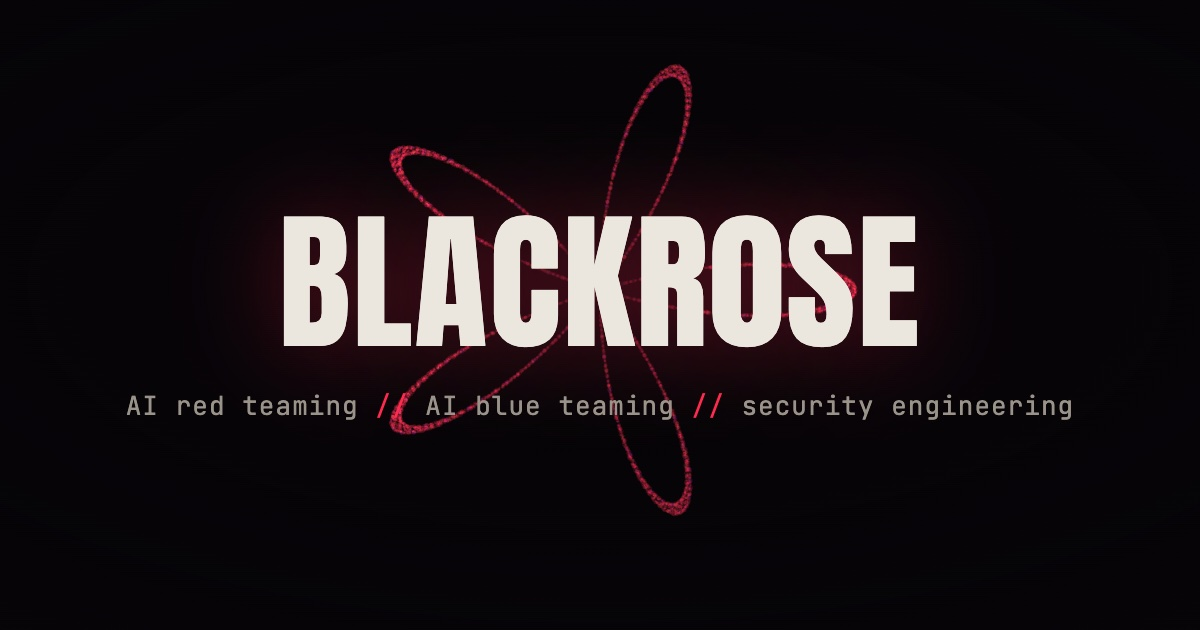
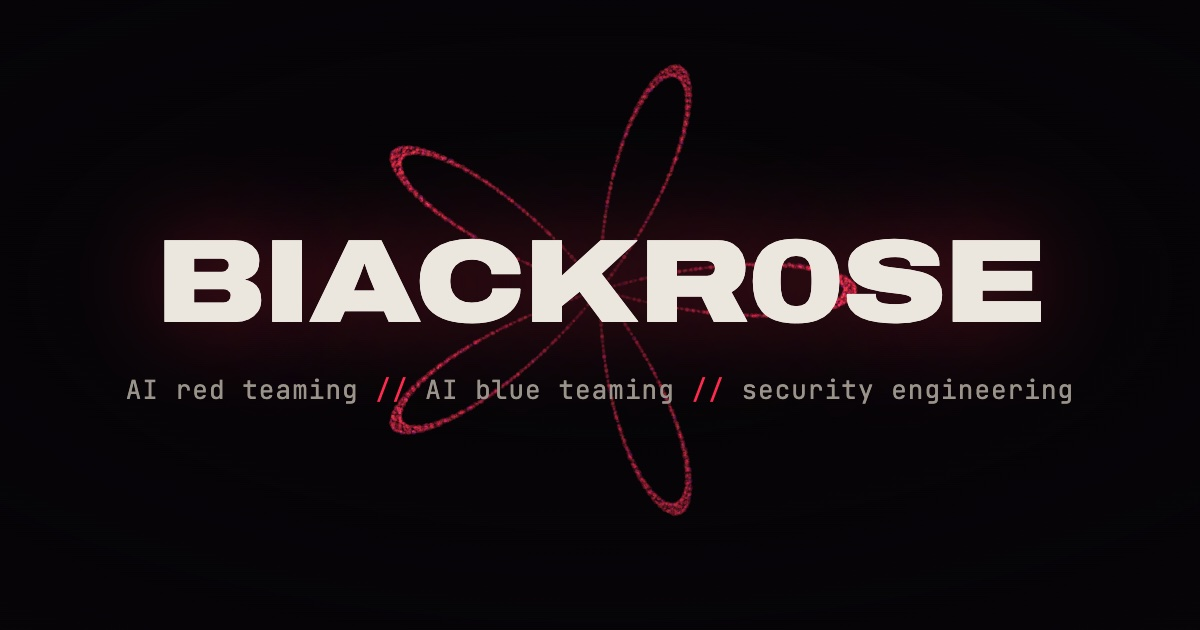
wip: correct wordmark to BIACKR0SE, swap display font to Archivo Expanded 900

Changed region(s): [[0.1233, 0.3317, 0.8942, 0.573], [0.0925, 0.6032, 0.8942, 0.6635]]

diff --git a/themes/blackrose/static/css/main.css b/themes/blackrose/static/css/main.css
@@ -3,9 +3,9 @@
    ============================================================ */
 
 @font-face {
-  font-family: "Anton";
-  src: url("../fonts/anton-v27-latin-regular.woff2") format("woff2");
-  font-weight: 400; font-style: normal; font-display: swap;
+  font-family: "Archivo Expanded";
+  src: url("../fonts/archivo-expanded-v25-latin-900.woff2") format("woff2");
+  font-weight: 900; font-stretch: 125%; font-style: normal; font-display: swap;
 }
 @font-face {
   font-family: "Space Grotesk";
@@ -46,9 +46,9 @@
   --ember: #ff6a3d;
   --violet: #a12aff;
   --grad: linear-gradient(100deg, var(--rose) 0%, var(--ember) 55%, #ffb03a 100%);
-  --display: "Anton", Impact, "Arial Narrow", sans-serif;
-  /* Anton is condensed; display type gets a touch of positive tracking */
-  --disp-track: 0.012em;
+  --display: "Archivo Expanded", "Arial Black", sans-serif;
+  /* expanded grotesque runs tight, like the original Archivo Black */
+  --disp-track: -0.01em;
   --body: "Space Grotesk", "Helvetica Neue", sans-serif;
   --mono: "JetBrains Mono", "SF Mono", Menlo, monospace;
   --pad: clamp(1.25rem, 4vw, 4rem);
@@ -200,8 +200,8 @@ img { max-width: 100%; display: block; }
 @keyframes blink { 50% { opacity: 0; } }
 .hero-title {
   font-family: var(--display);
-  font-size: clamp(3.4rem, 14.5vw, 12.5rem);
-  line-height: 0.92; letter-spacing: 0.015em;
+  font-size: clamp(3rem, 12.5vw, 11rem);
+  line-height: 0.92; letter-spacing: -0.015em;
   color: var(--ink);
   text-transform: uppercase;
   text-shadow: 0 0 90px rgba(255, 42, 77, 0.28), 0 0 24px rgba(6, 4, 7, 0.8);
@@ -267,8 +267,8 @@ section { position: relative; }
 }
 .section-title {
   font-family: var(--display);
-  font-size: clamp(2.7rem, 8vw, 6.1rem);
-  line-height: 0.98; text-transform: uppercase; letter-spacing: var(--disp-track);
+  font-size: clamp(2.6rem, 7.5vw, 5.8rem);
+  line-height: 0.95; text-transform: uppercase; letter-spacing: var(--disp-track);
   margin-bottom: 3rem;
 }
 
@@ -297,8 +297,8 @@ html.js [data-reveal].in { opacity: 1; transform: none; }
 .manifesto-inner { max-width: 60rem; }
 .statement {
   font-family: var(--display);
-  font-size: clamp(3rem, 9vw, 7.4rem);
-  line-height: 1.04; text-transform: uppercase; letter-spacing: var(--disp-track);
+  font-size: clamp(2.6rem, 8vw, 6.6rem);
+  line-height: 1.02; text-transform: uppercase; letter-spacing: var(--disp-track);
 }
 .statement .line { display: block; }
 .manifesto-copy {
@@ -494,8 +494,8 @@ a.pub-row:hover .pub-title { color: var(--rose); }
 .contact { text-align: center; padding-bottom: clamp(6rem, 16vh, 11rem); }
 .contact-title {
   font-family: var(--display);
-  font-size: clamp(2.7rem, 9.5vw, 7.4rem);
-  text-transform: uppercase; line-height: 0.98; letter-spacing: var(--disp-track);
+  font-size: clamp(2.4rem, 8.5vw, 6.6rem);
+  text-transform: uppercase; line-height: 0.95; letter-spacing: var(--disp-track);
   margin-bottom: 1.6rem;
 }
 .contact-copy { color: var(--dim); margin-bottom: 2.6rem; }
@@ -537,8 +537,8 @@ a.pub-row:hover .pub-title { color: var(--rose); }
 .post-head .kicker { margin-bottom: 1.2rem; color: var(--faint); }
 .post-title-main {
   font-family: var(--display);
-  font-size: clamp(2.1rem, 6.5vw, 3.9rem);
-  line-height: 1.05; text-transform: uppercase; letter-spacing: var(--disp-track);
+  font-size: clamp(1.9rem, 5.5vw, 3.4rem);
+  line-height: 1.02; text-transform: uppercase; letter-spacing: var(--disp-track);
 }
 .post-standfirst {
   margin-top: 1.4rem; color: var(--dim);

diff --git a/themes/blackrose/layouts/partials/head.html b/themes/blackrose/layouts/partials/head.html
@@ -23,6 +23,6 @@
 {{ range .AlternativeOutputFormats -}}
 <link rel="{{ .Rel }}" type="{{ .MediaType.Type }}" href="{{ .Permalink | safeURL }}" title="{{ site.Title }}">
 {{ end -}}
-<link rel="preload" href="{{ "fonts/anton-v27-latin-regular.woff2" | relURL }}" as="font" type="font/woff2" crossorigin>
+<link rel="preload" href="{{ "fonts/archivo-expanded-v25-latin-900.woff2" | relURL }}" as="font" type="font/woff2" crossorigin>
 <link rel="preload" href="{{ "fonts/space-grotesk-v22-latin-regular.woff2" | relURL }}" as="font" type="font/woff2" crossorigin>
 <link rel="stylesheet" href="{{ "css/main.css" | relURL }}">

diff --git a/themes/blackrose/layouts/index.html b/themes/blackrose/layouts/index.html
@@ -7,7 +7,7 @@
   <div class="hero-fade" data-hero-fade aria-hidden="true"></div>
   <div class="hero-inner">
     <p class="hero-boot mono" data-boot aria-hidden="true"></p>
-    <h1 class="hero-title glitch" data-glitch="BLACKR0SE"><span>BLACKR0SE</span></h1>
+    <h1 class="hero-title glitch" data-glitch="BIACKR0SE"><span>BIACKR0SE</span></h1>
     <p class="hero-sub">AI red teaming <em>//</em> AI blue teaming <em>//</em> security engineering</p>
   </div>
   <a class="hero-cue mono" href="#manifesto" aria-label="scroll down">scroll<span class="cue-line" aria-hidden="true"></span></a>
